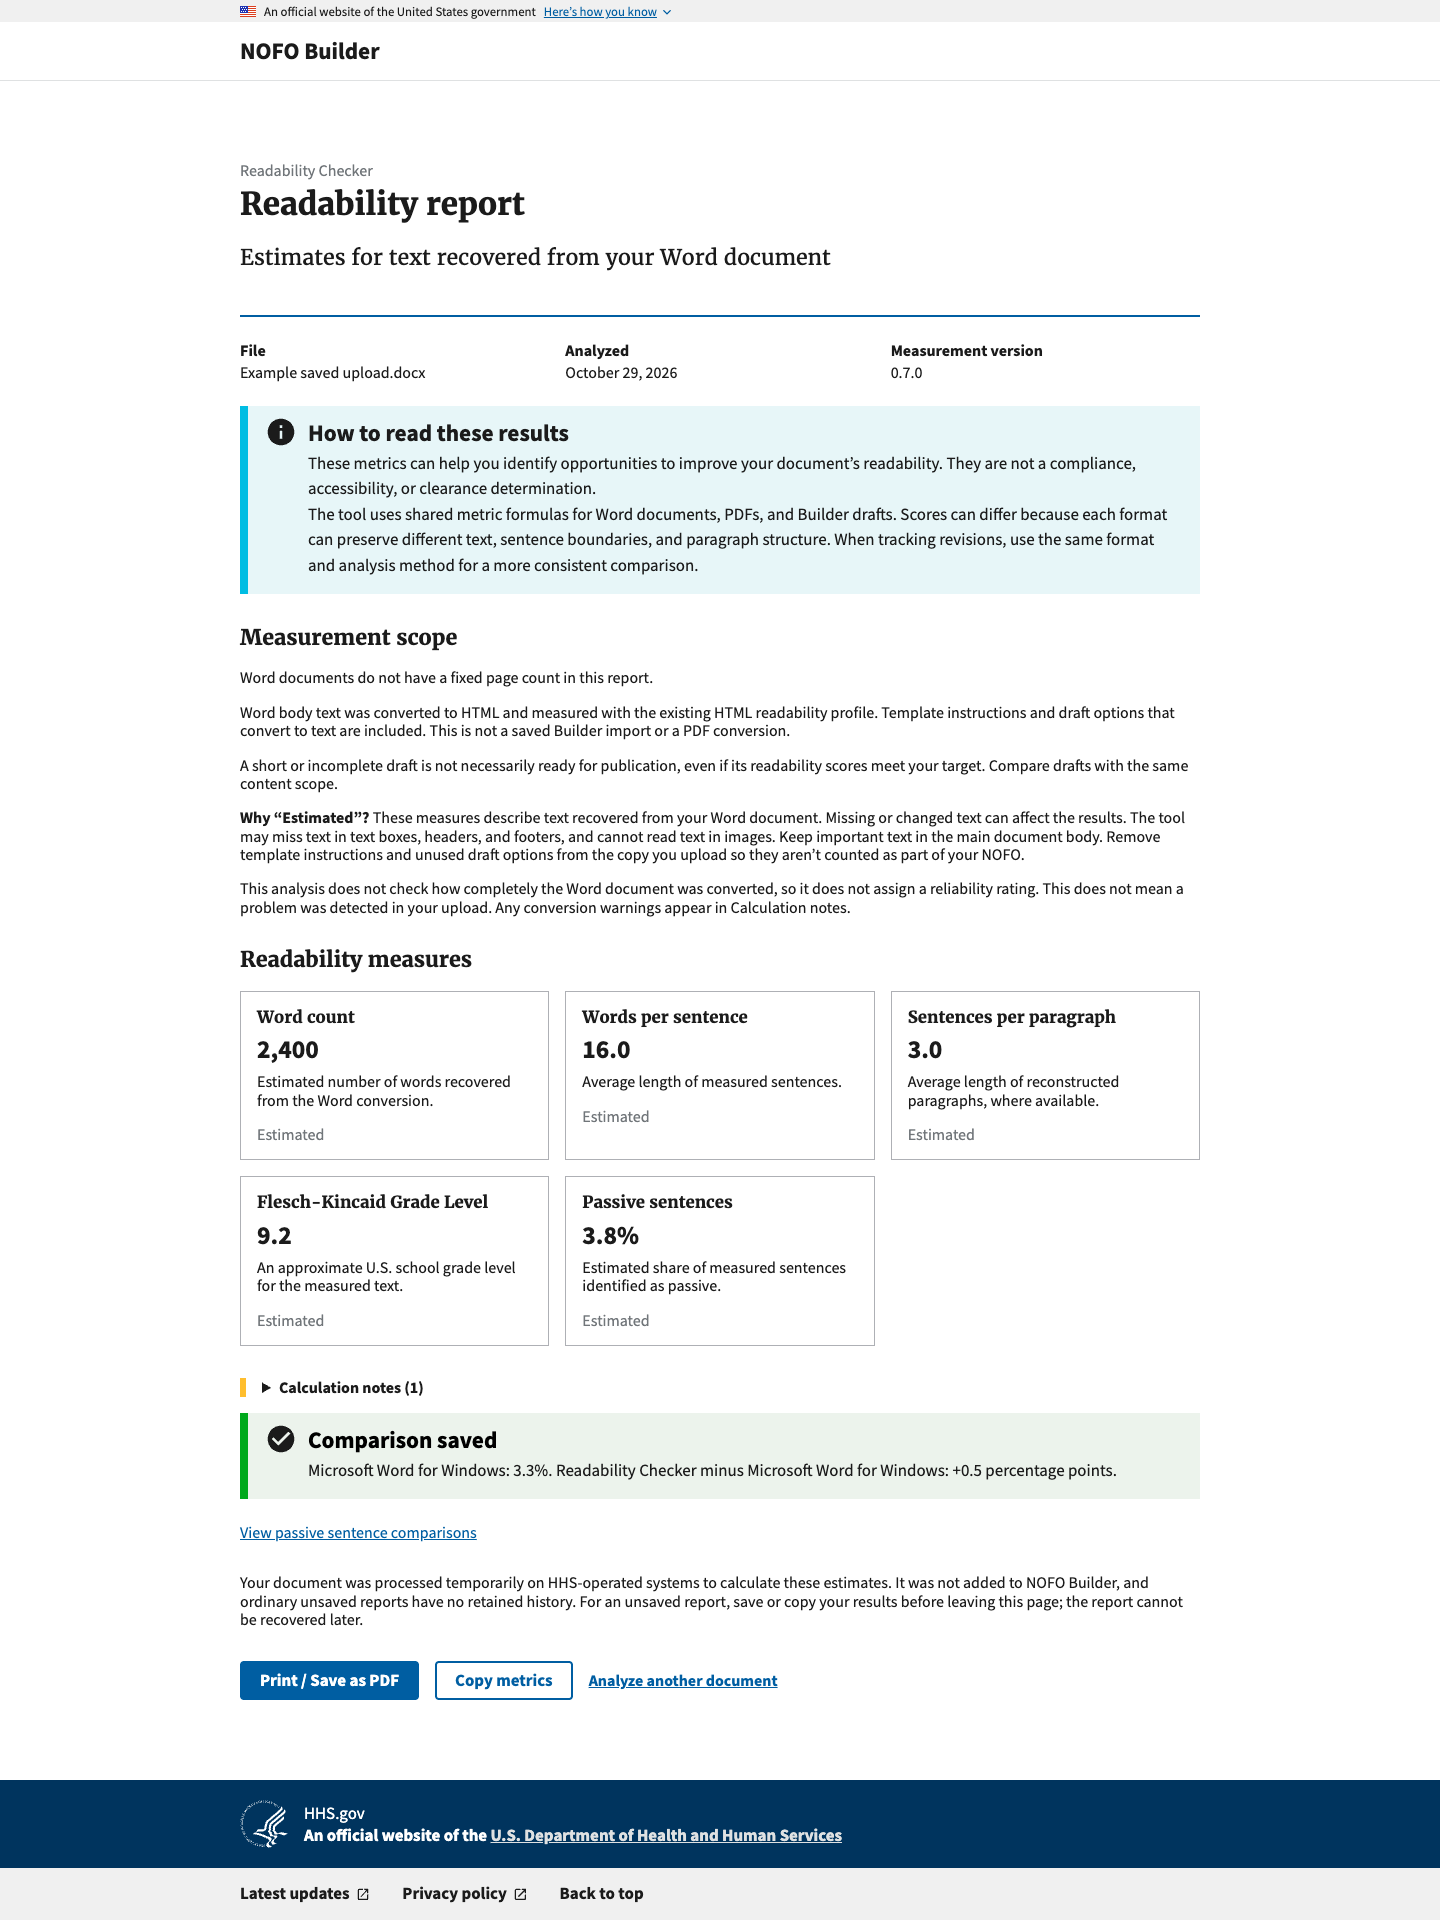
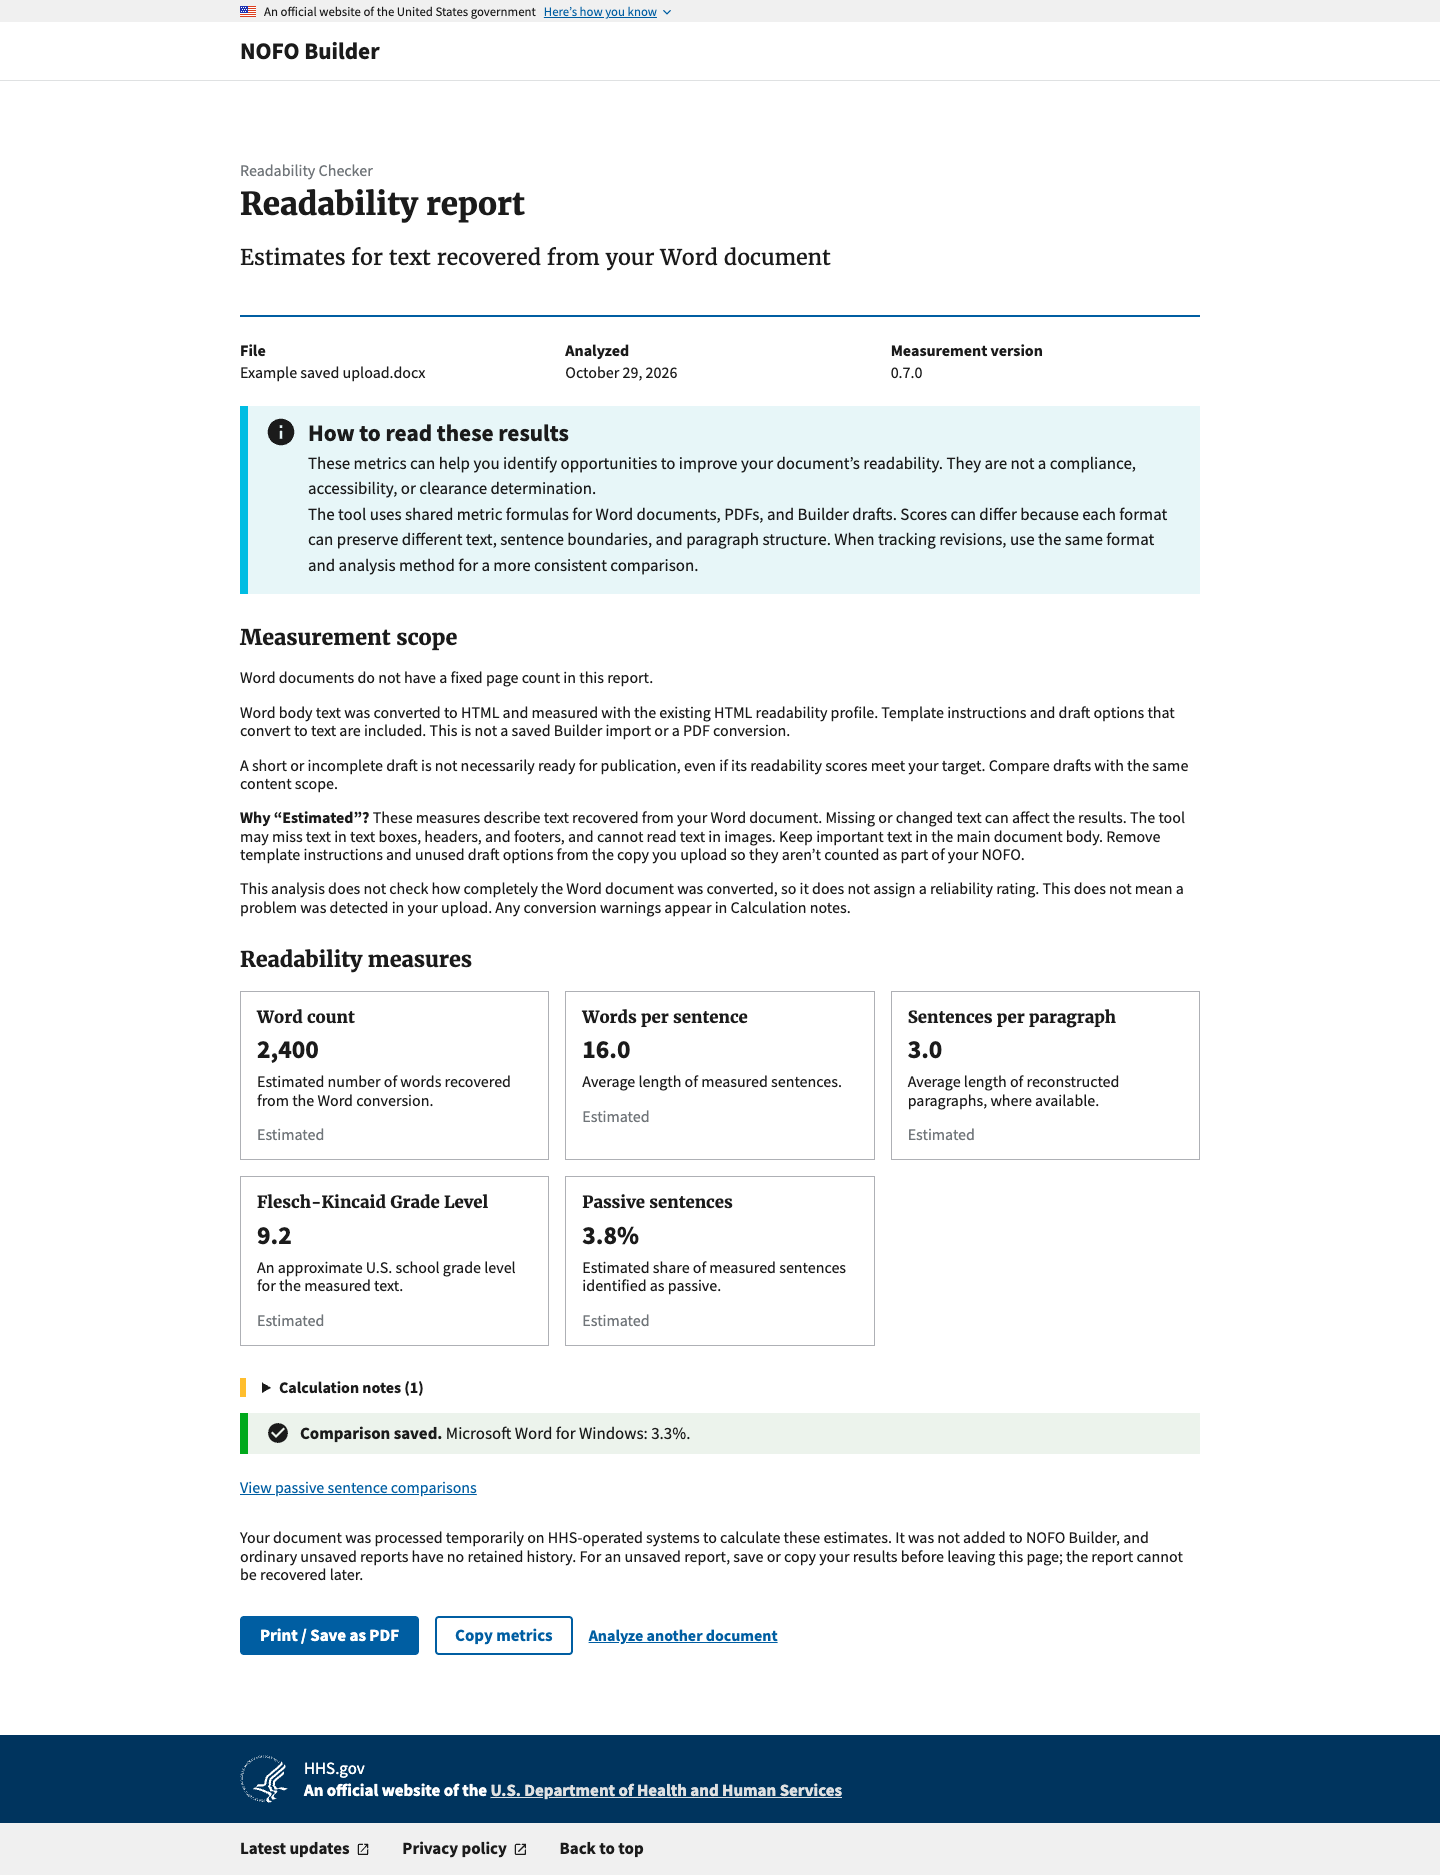
fix: use compact slim success feedback for saved comparisons

diff --git a/nofos/bloom_nofos/templates/includes/alerts.html b/nofos/bloom_nofos/templates/includes/alerts.html
@@ -1,15 +1,15 @@
 {% for message in messages %}
   {% if "success" in message.tags and success_heading %}
-    <div id="nofo-editor-success-alert" class="usa-alert usa-alert--success margin-bottom-3{% if stick_to_bottom %} usa-alert--fixed{% endif %}" role="alert" aria-live="polite">
+    <div id="nofo-editor-success-alert" class="usa-alert usa-alert--success{% if slim %} usa-alert--slim{% endif %} margin-bottom-3{% if stick_to_bottom %} usa-alert--fixed{% endif %}" role="alert" aria-live="polite">
       <div class="usa-alert__body">
         {% if stick_to_bottom %}
           <button type="button" class="usa-alert__close" aria-label="Dismiss success message" tabindex="0">
             <span aria-hidden="true">×</span>
           </button>
         {% endif %}
-        <h4 class="usa-alert__heading text-black">{{ success_heading }}</h4>
+        {% if not slim %}<h4 class="usa-alert__heading text-black">{{ success_heading }}</h4>{% endif %}
         <p class="usa-alert__text">
-          {{ message | safe }}
+          {% if slim %}<strong>{{ success_heading }}.</strong> {% endif %}{{ message | safe }}
         </p>
       </div>
     </div>

diff --git a/nofos/bloom_nofos/templates/pdf_readability.html b/nofos/bloom_nofos/templates/pdf_readability.html
@@ -104,7 +104,7 @@
         </section>
         {% endif %}
         {% if comparison_saved %}
-        {% include "includes/alerts.html" with messages=messages success_heading="Comparison saved" only %}
+        {% include "includes/alerts.html" with messages=messages success_heading="Comparison saved" slim=True only %}
         {% if perms.nofos.view_builder_metrics %}<p><a href="{% url 'nofos:word_comparisons' %}">View passive sentence comparisons</a></p>{% endif %}
         {% endif %}
         <p class="margin-top-4">Your document was processed temporarily on HHS-operated systems to calculate these estimates. It was not added to NOFO Builder, and ordinary unsaved reports have no retained history. For an unsaved report, save or copy your results before leaving this page; the report cannot be recovered later.</p>

diff --git a/nofos/nofos/tests_nofos/test_word_comparisons.py b/nofos/nofos/tests_nofos/test_word_comparisons.py
@@ -67,6 +67,8 @@ class ComparisonTests(TestCase):
         self.assertEqual(response.status_code, 200)
         self.assertContains(response, "Comparison saved")
         self.assertTemplateUsed(response, "includes/alerts.html")
+        self.assertContains(response, "usa-alert--slim")
+        self.assertNotContains(response, '<h4 class="usa-alert__heading')
         self.assertContains(response, "Readability report")
         self.assertContains(response, "View passive sentence comparisons")
         self.assertNotContains(response, 'name="passive"')

diff --git a/nofos/nofos/word_comparisons.py b/nofos/nofos/word_comparisons.py
@@ -85,11 +85,6 @@ def save(request):
             )
     if record:
         message = f"Microsoft Word for Windows: {record.word_passive:.1f}%."
-        if record.difference is not None:
-            message += (
-                " Readability Checker minus Microsoft Word for Windows: "
-                f"{record.difference:+.1f} percentage points."
-            )
         messages.success(request, message)
     from bloom_nofos.views import _metric_rows
 

diff --git a/documentation/UI_PATTERNS.md b/documentation/UI_PATTERNS.md
@@ -613,8 +613,10 @@ Like upload errors, the error receives keyboard focus and remains correctable.
 Saving is a normal server-rendered form POST and full document reload, not
 background saving or autosave. Reuse Django success messages and
 [includes/alerts.html](../nofos/bloom_nofos/templates/includes/alerts.html), as on
-the NOFO index/edit screens. Render its non-fixed success variant on the report;
-do not introduce a custom success banner or a new entry page. The alert remains
+the NOFO index/edit screens. Render its non-fixed **slim=True** success variant on the report: a short
+confirmation in the body, without a separate heading. This optional variant
+leaves existing callers unchanged. Do not introduce a custom success banner
+or a new entry page. The alert remains
 visible rather than auto-dismissing. Comparison responses must not reopen the
 upload-analysis progress/ready modal.
 
@@ -623,3 +625,11 @@ percentage-point differences, a clearly labelled zero reference, native SVG
 title/description, and a native **View chart data** disclosure with exact values.
 Do not add totals, averages or thresholds. Missing differences are omitted;
 a single available pair still renders a point.
+
+
+For comparison, the NOFO readability panel already uses a smaller text-only
+live status (**Snapshot saved.**) for its asynchronous snapshot save:
+[readability_metrics_panel.html](../nofos/nofos/templates/nofos/includes/readability_metrics_panel.html)
+and [nofo_readability_metrics.js](../nofos/bloom_nofos/static/js/nofos/nofo_readability_metrics.js).
+Use that existing status approach for background snapshot saving. The uploaded
+report uses the slim shared success alert after its normal form POST/reload.

diff --git a/documentation/review-evidence/1248/README.md b/documentation/review-evidence/1248/README.md
@@ -109,3 +109,12 @@ and shared success feedback remain unchanged. Fifteen comparison/shared-form
 tests pass. Browser capture verified ArrowUp changes 3.3 to 3.4 and ArrowDown
 returns to 3.3, followed by a successful submission. Full-page entry/error/saved
 captures were refreshed; the populated-entry capture shows the hovered control.
+
+
+## Compact success-feedback review
+
+The existing NOFO readability panel provides text-only “Snapshot saved.” feedback
+for asynchronous saving. This report continues to use a normal POST/reload, with
+the shared alerts component's optional slim success variant: no separate heading,
+just “Comparison saved.” and the entered percentage. Existing alert callers
+retain their current appearance. Full-page success captures were refreshed. All 23 affected comparison, readability-history and shared-form tests pass.
